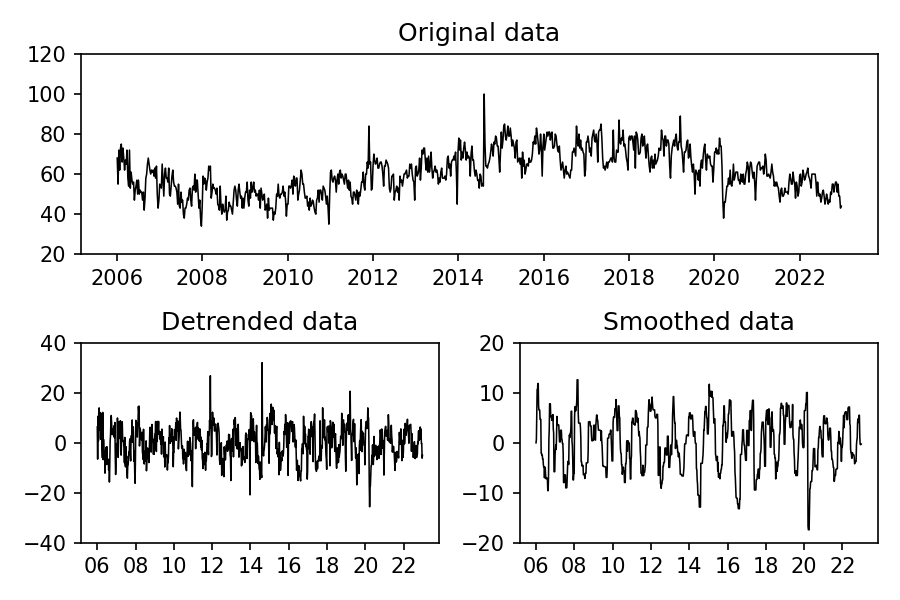
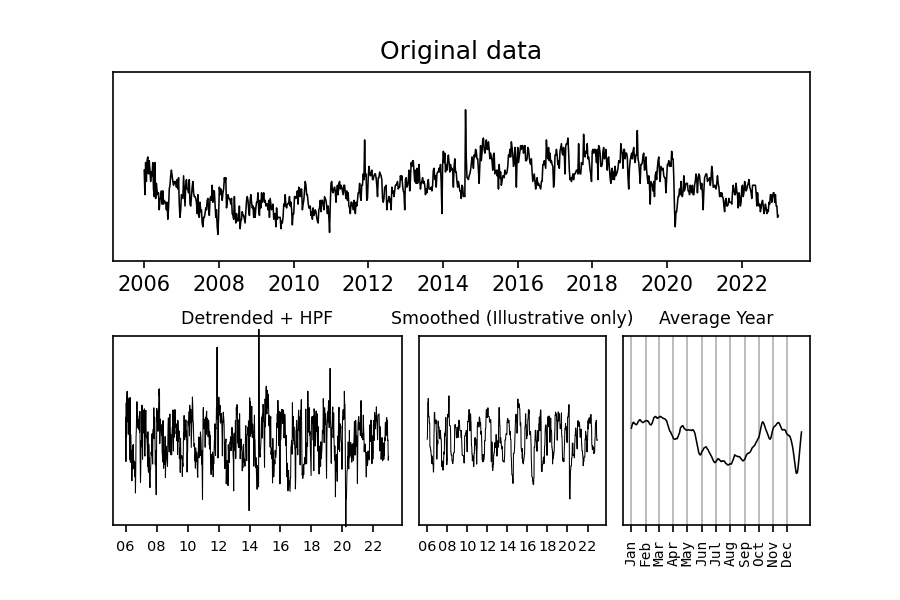
added single cycle to Fig1

diff --git a/googleTrends/gTrends_depression.py b/googleTrends/gTrends_depression.py
@@ -122,32 +122,56 @@ yrAvg = np.divide(yrAvg,yrDiv)
 # delete df_us as no longer need it
 del df_us
 
+# create xticks and xtick labels for the '1Yr' graphs
+# getting dates for a single year (2010, arbitrary as long as not leap year!)
+datList = pd.date_range(start='2010-01-01',end='2010-12-31')
+xt = pd.date_range(start='2010-01-01',end='2010-12-01', freq='MS')
+xtl = ['Jan','Feb','Mar','Apr','May','Jun','Jul','Aug','Sep','Oct','Nov','Dec']
+
 #%% plot the various data sets (orig, detrend, smooth, single cycle)
-# TODO - add single cycle!
+
+# create figure and gridspec for the figure
+f = plt.figure(constrained_layout=False)
+gs = f.add_gridspec(2,7)
 
 # plot the comparison
-ax1 = plt.subplot(211)
+ax1 = f.add_subplot(gs[0,:])
 ax1.plot(df['Date'],df['Freq'],c='k',lw=0.75)
 ax1.set_title('Original data')
 ax1.set_ylim(20,120)
-ax1.set_yticks(np.arange(20,140,20))
+# ax1.set_yticks(np.arange(20,140,20))
+ax1.set_yticks([])
 
-ax2 = plt.subplot(223)
-ax2.plot(df['Date'],df['Freq_dt'],c='k',lw=0.75)
-ax2.set_title('Detrended data')
-ax2.set_ylim(-40,40)
-ax2.set_yticks(np.arange(-40,60,20))
+ax2 = f.add_subplot(gs[1,0:3])
+ax2.plot(df['Date'],df['Freq_dt'],c='k',lw=0.5, clip_on=False)
+ax2.set_title('Detrended + HPF', fontsize='small')
+ax2.set_ylim(-25,30)
+# ax2.set_yticks(np.arange(-40,60,20))
+ax2.set_yticks([])
 ax2.xaxis.set_major_formatter(DateFormatter('%y')) # convert 2006 to 06
+ax2.tick_params(axis='both',labelsize='x-small')
 
-ax3 = plt.subplot(224)
-ax3.plot(df['Date'],df['Freq_sm'],c='k',lw=0.75)
-ax3.set_title('Smoothed data')
-ax3.set_ylim(-20,20)
-ax3.set_yticks(np.arange(-20,30,10))
+ax3 = f.add_subplot(gs[1,3:5])
+ax3.plot(df['Date'],df['Freq_sm'],c='k',lw=0.5)
+ax3.set_title('Smoothed (Illustrative only)', fontsize='small')
+ax3.set_ylim(-25,30)
+# ax3.set_yticks(np.arange(-20,30,10))
+ax3.set_yticks([])
 ax3.xaxis.set_major_formatter(DateFormatter('%y'))
+ax3.tick_params(axis='both',labelsize='x-small')
 
-# keep things tight
-plt.tight_layout()
+ax4 = f.add_subplot(gs[1,5:7])
+ax4.plot(datList,yrAvg,c='k',lw=0.75)
+ax4.set_title('Average Year', fontsize='small')
+ax4.set_ylim(-25,30)
+# ax4.set_yticks(np.arange(-10,15,5))
+ax4.set_yticks([])
+ax4.tick_params(axis='y',labelsize='x-small') # can only use set_yticks for size if pass labels
+ax4.grid(axis='x')
+ax4.set_xticks(xt, labels=xtl, fontsize='x-small', rotation=90.0, family='monospace')
+
+# adjust whitespace
+plt.subplots_adjust(wspace=0.2,hspace=0.4)
 
 # save the figure and show
 if saveF: plt.savefig('./Fig1.png',dpi=150, pad_inches=0)
@@ -287,8 +311,7 @@ pCom = p1 + p2 + p3
 p1_ar2 = adjR2(p1,1)[1]
 pCom_ar2 = adjR2(pCom,4)[1]
 
-# grab cycle for a single year (2010, arbitrary as long as not leap year!)
-datList = pd.date_range(start='2010-01-01',end='2010-12-31')
+# calculate the frequencies of interest for just one year
 t_1Dint = t[-1]/nDays # t[end] is cycle over all days, so calc. interval for 1 day
 t_1Y = np.arange(0,365*t_1Dint,t_1Dint)
 p1_1Y = w_amp[peaks[0]]*np.cos(peaks[0]*t_1Y + w_ph[peaks[0]])
@@ -321,9 +344,7 @@ ax[1,0].set_ylim(-20,20)
 ax[1,0].set_yticks(np.arange(-20,30,10))
 ax[1,0].xaxis.set_major_formatter(DateFormatter('%y')) 
 
-# create xticks and xtick labels for upcoming (1Yr) graphs
-xt = pd.date_range(start='2010-01-01',end='2010-12-01', freq='MS')
-xtl = ['Jan','Feb','Mar','Apr','May','Jun','Jul','Aug','Sep','Oct','Nov','Dec']
+#---
 
 # plot the main frequency of interest (1Y)
 ax[0,1].plot(datList,yrAvg,c='k',lw=1.0, alpha=0.75)
